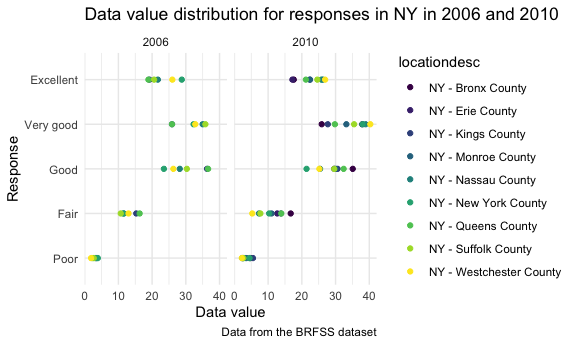
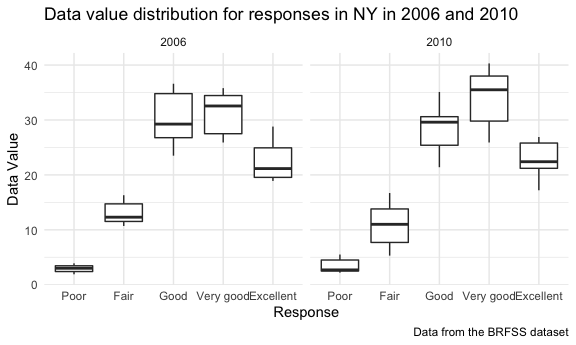
edited two-panel plot for problem 2 by making it a boxplot and putting response on the x axis and data value on the y axis

diff --git a/p8105_hw3_rr3423.md b/p8105_hw3_rr3423.md
@@ -279,7 +279,7 @@ across locations within a state seem to fluctuate from year to year in
 many states between 2002 and 2010. There is a lot of variability in this
 graph from year to year.
 
-### Making a two-panel plot showing the distribution of data\_value for responses among locations in NY State for the years 2006 and 2010
+### Making a two-panel plot showing the distribution of data value for responses among locations in NY State for the years 2006 and 2010
 
 ``` r
 brfss_df %>% 
@@ -287,13 +287,13 @@ brfss_df %>%
     year %in% c("2006", "2010"),
     locationabbr %in% c("NY")
   ) %>% 
-  ggplot(aes(x = data_value, y = response, color = locationdesc)) + 
-  geom_point() + 
+  ggplot(aes(x = response, y = data_value)) + 
+  geom_boxplot() + 
   facet_grid(. ~ year) + 
   labs(
     title = "Data value distribution for responses in NY in 2006 and 2010",
-    x = "Data value",
-    y = "Response",
+    x = "Response",
+    y = "Data Value",
     caption = "Data from the BRFSS dataset"
   ) + 
   theme(legend.position = "right")
@@ -301,7 +301,17 @@ brfss_df %>%
 
 <img src="p8105_hw3_rr3423_files/figure-gfm/two_panel_plot-1.png" width="90%" />
 
-\*\* COMMENT ON THE RESULTS FOR THIS GRAPH\*\*
+Between 2006 and 2010, the distributions of data values for poor
+responses are pretty similar, though the 2010 distribution is slightly
+skewed in comparison to the 2006. The distributions of data values for
+fair responses are similar, though the 2010 distribution seems to have a
+wider range of data values. The distributions of data value for good
+responses are slightly similar with similar median values. The
+distributions of data values for very good responses are different
+between 2006 and 2010, with the 2010 distribution having a higher median
+data value. The distributions of data values for excellent responses are
+similar to each other with similar median values, though they are both
+slightly skewed.
 
 ## PROBLEM 3
 
